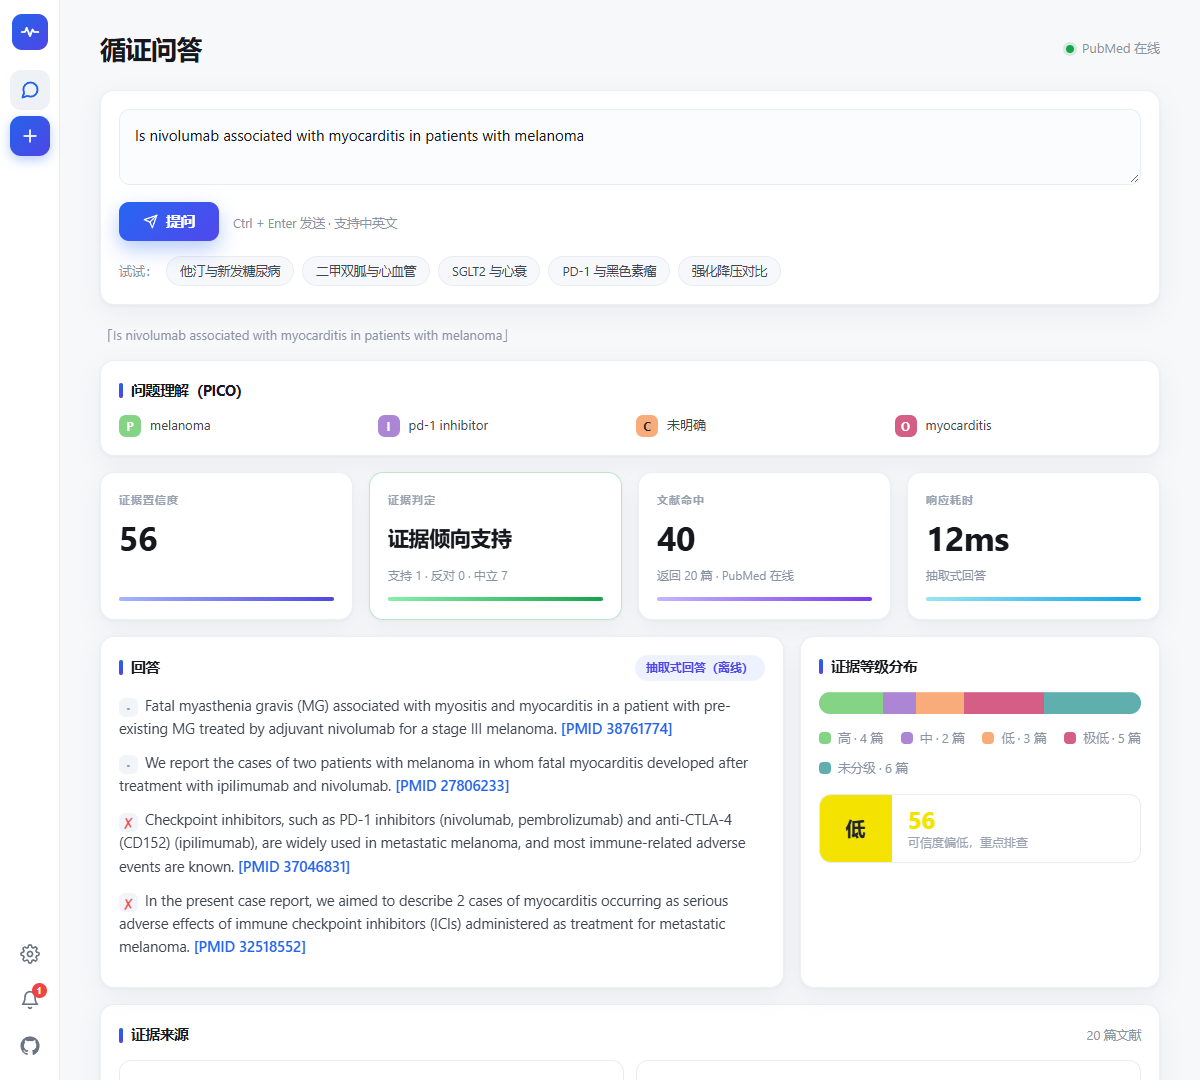
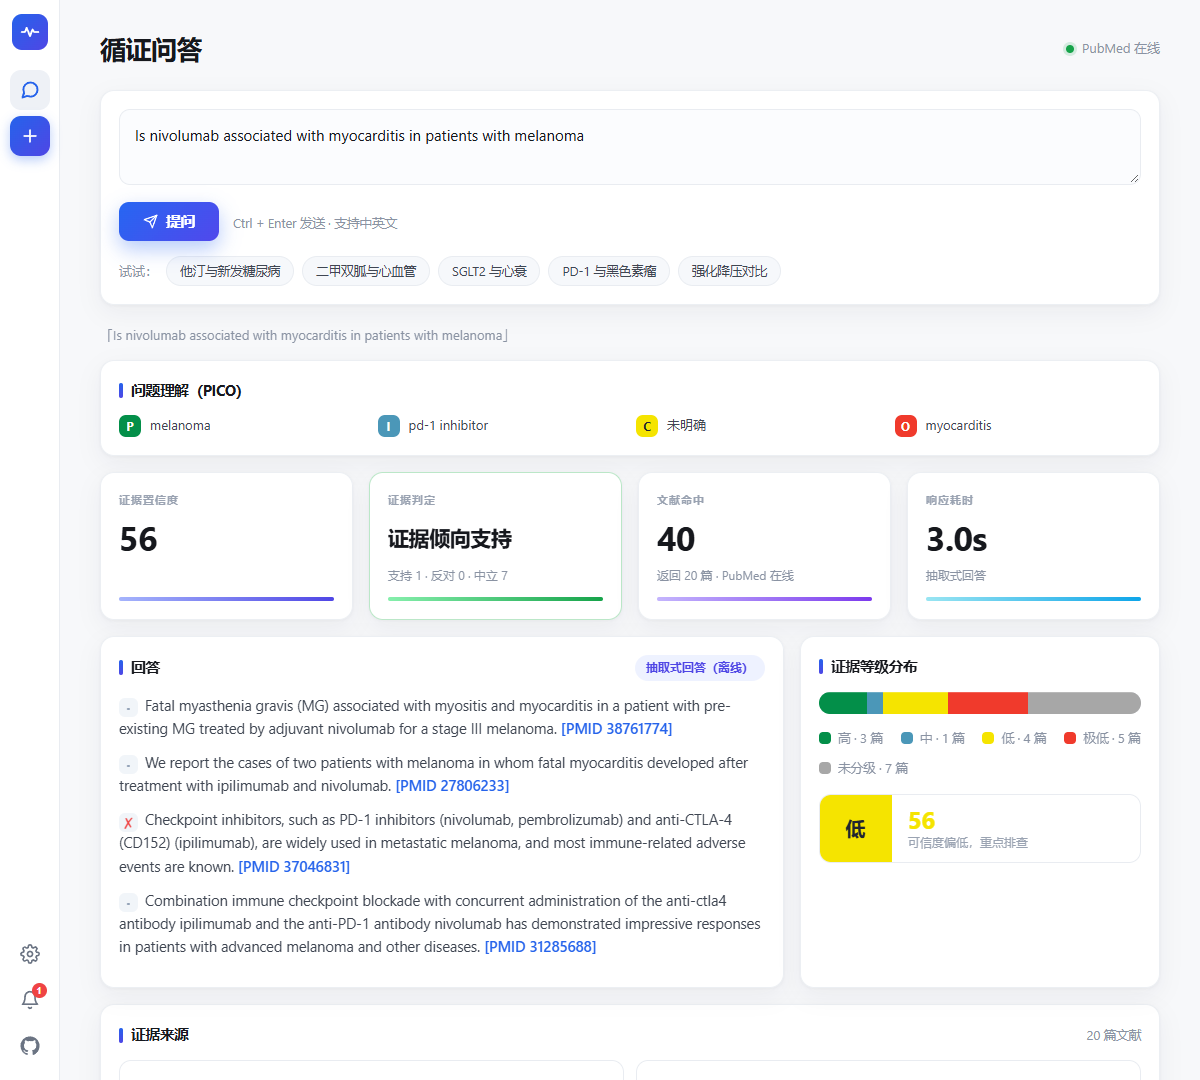
Unify all grade colors to the 5-tier palette from design mockup

diff --git a/static/app.js b/static/app.js
@@ -2,8 +2,8 @@ const GRADE_ZH = {
   High: "高", Moderate: "中", Low: "低", "Very low": "极低", "N/A": "未分级",
 };
 const GRADE_COLOR = {
-  High: "#85D485", Moderate: "#AD85D5", Low: "#F9AB7A",
-  "Very low": "#D45E85", "N/A": "#5FAFAF",
+  High: "#038F49", Moderate: "#4B97B8", Low: "#F5E400",
+  "Very low": "#F03A2C", "N/A": "#A7A7A7",
 };
 
 // 根据背景亮度自动选深/浅文字，避免亮黄底配白字看不清
@@ -161,7 +161,7 @@ function renderPico(pico) {
 const CONF_TIERS = [
   { min: 80, label: "高", color: "#038f4a", text: "#fff", desc: "结果高度可信，可直接采信" },
   { min: 60, label: "中", color: "#4b97b8", text: "#fff", desc: "结果基本可信，建议复核" },
-  { min: 40, label: "低", color: "#f4e300", text: "#1f2430", desc: "可信度偏低，重点排查" },
+  { min: 40, label: "低", color: "#f5e400", text: "#1f2430", desc: "可信度偏低，重点排查" },
   { min: 0,  label: "极低", color: "#f0392c", text: "#fff", desc: "可信度极低，不建议采用" },
 ];
 const CONF_NA = { label: "未分级", color: "#a7a7a7", text: "#fff", desc: "数据不足，无法评估" };
@@ -211,7 +211,7 @@ function renderDocs(results) {
     div.className = "doc-item";
 
     const grade = GRADE_ZH[d.grade] || "未分级";
-    const color = GRADE_COLOR[d.grade] || "#5FAFAF";
+    const color = GRADE_COLOR[d.grade] || "#A7A7A7";
     const url = d.pmid
       ? `https://pubmed.ncbi.nlm.nih.gov/${d.pmid}/`
       : "#";

diff --git a/static/style.css b/static/style.css
@@ -203,10 +203,10 @@ textarea:focus {
   display: flex; align-items: center; justify-content: center;
   font-size: 12px; font-weight: 700; color: #fff;
 }
-.pico-p { background: #85D485; }
-.pico-i { background: #AD85D5; }
-.pico-c { background: #F9AB7A; color: #1f2430; }
-.pico-o { background: #D45E85; }
+.pico-p { background: #038F49; }
+.pico-i { background: #4B97B8; }
+.pico-c { background: #F5E400; color: #1f2430; }
+.pico-o { background: #F03A2C; }
 .pico-body { font-size: 13px; color: var(--text); line-height: 1.5; }
 
 /* ---------- 撤稿 / 完整性徽章 ---------- */
